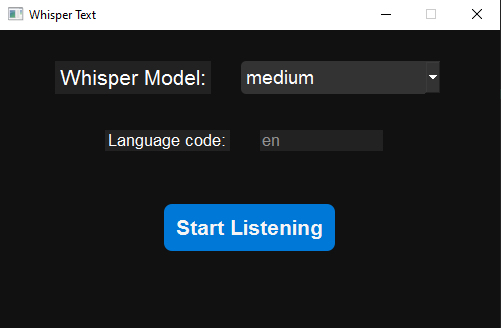
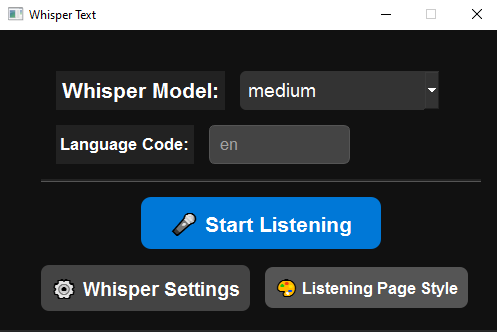
Changed photo

diff --git a/pages/front.py b/pages/front.py
@@ -2,7 +2,7 @@ from PyQt6.QtCore import Qt
 from PyQt6.QtGui import QFont
 from PyQt6.QtWidgets import (
     QWidget, QStackedWidget, QLabel, QComboBox, QHBoxLayout,
-    QPushButton, QVBoxLayout, QLineEdit, QSizePolicy
+    QPushButton, QVBoxLayout, QLineEdit, QSizePolicy, QFrame
 )
 
 from .listening import ListeningPage
@@ -23,64 +23,68 @@ class FrontPage(QWidget):
 
         # --- Whisper Model Selection ---
         self.label = QLabel("Whisper Model:")
-        self.label.setFont(QFont("Arial", 16))
+        self.label.setFont(QFont("Arial", 16, QFont.Weight.Bold))
         self.label.setStyleSheet("color: white; margin-left: 15px;")
 
         self.combo_box = QComboBox()
         self.combo_box.addItems(WHISPER_MODELS)
         self.combo_box.setCurrentIndex(6)
         self.combo_box.setFont(QFont("Arial", 14))
-        self.combo_box.setMinimumWidth(180)
+        self.combo_box.setMinimumWidth(200)
         self.combo_box.setStyleSheet("""
             background-color: #333; 
             color: white; 
-            padding: 5px; 
-            border-radius: 5px;
+            padding: 8px; 
+            border-radius: 6px;
         """)
 
-        # Model Selection Layout
         model_selection_layout = QHBoxLayout()
         model_selection_layout.addWidget(self.label)
         model_selection_layout.addWidget(self.combo_box)
         model_selection_layout.addStretch()
 
         # --- Language Selection ---
-        self.language_selection_label = QLabel("Language code:")
-        self.language_selection_label.setFont(QFont("Arial", 13))
+        self.language_selection_label = QLabel("Language Code:")
+        self.language_selection_label.setFont(QFont("Arial", 13, QFont.Weight.Bold))
         self.language_selection_label.setStyleSheet("color: white; margin-left: 15px;")
 
         self.language_selection = QLineEdit()
         self.language_selection.setPlaceholderText("en")
         self.language_selection.setFont(QFont("Arial", 13))
+        self.language_selection.setMinimumWidth(100)
         self.language_selection.setStyleSheet("""
             QLineEdit {
-                border: none;
                 background-color: #444;
                 color: white;
-                padding: 5px;
-                border-radius: 5px;
+                padding: 8px;
+                border-radius: 6px;
+                border: 1px solid #555;
             }
             QLineEdit:focus {
                 border: 1px solid white;
             }
         """)
 
-        # Language Input Layout
         language_input_layout = QHBoxLayout()
         language_input_layout.addWidget(self.language_selection_label)
         language_input_layout.addWidget(self.language_selection)
         language_input_layout.addStretch()
 
+        # --- Divider ---
+        divider = QFrame()
+        divider.setFrameShape(QFrame.Shape.HLine)
+        divider.setStyleSheet("color: #555; margin: 10px 0;")
+
         # --- Buttons ---
-        self.listen_button = QPushButton("Start Listening")
-        self.listen_button.setFont(QFont("Arial", 16))
-        self.listen_button.setMinimumWidth(220)
+        self.listen_button = QPushButton("🎤 Start Listening")
+        self.listen_button.setFont(QFont("Arial", 16, QFont.Weight.Bold))
+        self.listen_button.setMinimumWidth(240)
         self.listen_button.setStyleSheet("""
             QPushButton {
                 background-color: #0078D7; 
-                color: #F5F5F5; 
+                color: white; 
                 padding: 12px; 
-                border-radius: 8px;
+                border-radius: 10px;
                 font-weight: bold;
             }
             QPushButton:hover {
@@ -92,13 +96,13 @@ class FrontPage(QWidget):
         """)
         self.listen_button.clicked.connect(self.open_listening_page)
 
-        self.advanced_options_button = QPushButton("Whisper Settings")
-        self.advanced_options_button.setFont(QFont("Arial", 14))
-        self.advanced_options_button.setMinimumWidth(180)
+        self.advanced_options_button = QPushButton("⚙ Whisper Settings")
+        self.advanced_options_button.setFont(QFont("Arial", 14, QFont.Weight.Bold))
+        self.advanced_options_button.setMinimumWidth(200)
         self.advanced_options_button.setStyleSheet("""
             QPushButton {
                 background-color: #444;
-                color: #F5F5F5;
+                color: white;
                 padding: 10px;
                 border-radius: 8px;
                 font-weight: bold;
@@ -109,13 +113,13 @@ class FrontPage(QWidget):
         """)
         self.advanced_options_button.clicked.connect(self.switch_to_whisper_options)
 
-        self.listening_style_button = QPushButton("Listening Page Style")
-        self.listening_style_button.setFont(QFont("Arial", 12))
-        self.listening_style_button.setMinimumWidth(180)
+        self.listening_style_button = QPushButton("🎨 Listening Page Style")
+        self.listening_style_button.setFont(QFont("Arial", 12, QFont.Weight.Bold))
+        self.listening_style_button.setMinimumWidth(200)
         self.listening_style_button.setStyleSheet("""
             QPushButton {
                 background-color: #555;
-                color: #F5F5F5;
+                color: white;
                 padding: 10px;
                 border-radius: 8px;
                 font-weight: bold;
@@ -126,7 +130,6 @@ class FrontPage(QWidget):
         """)
         self.listening_style_button.clicked.connect(self.switch_to_listening_style)
 
-        # Buttons Layout
         buttons_layout = QHBoxLayout()
         buttons_layout.addWidget(self.advanced_options_button)
         buttons_layout.addWidget(self.listening_style_button)
@@ -136,10 +139,11 @@ class FrontPage(QWidget):
         layout = QVBoxLayout()
         layout.addLayout(model_selection_layout)
         layout.addLayout(language_input_layout)
+        layout.addWidget(divider)
         layout.addWidget(self.listen_button, alignment=Qt.AlignmentFlag.AlignCenter)
         layout.addLayout(buttons_layout)
-        layout.setContentsMargins(20, 20, 20, 20)
-        layout.setSpacing(20)
+        layout.setContentsMargins(30, 30, 30, 30)
+        layout.setSpacing(15)
 
         self.setLayout(layout)
         self.setStyleSheet("background-color: #222;")
